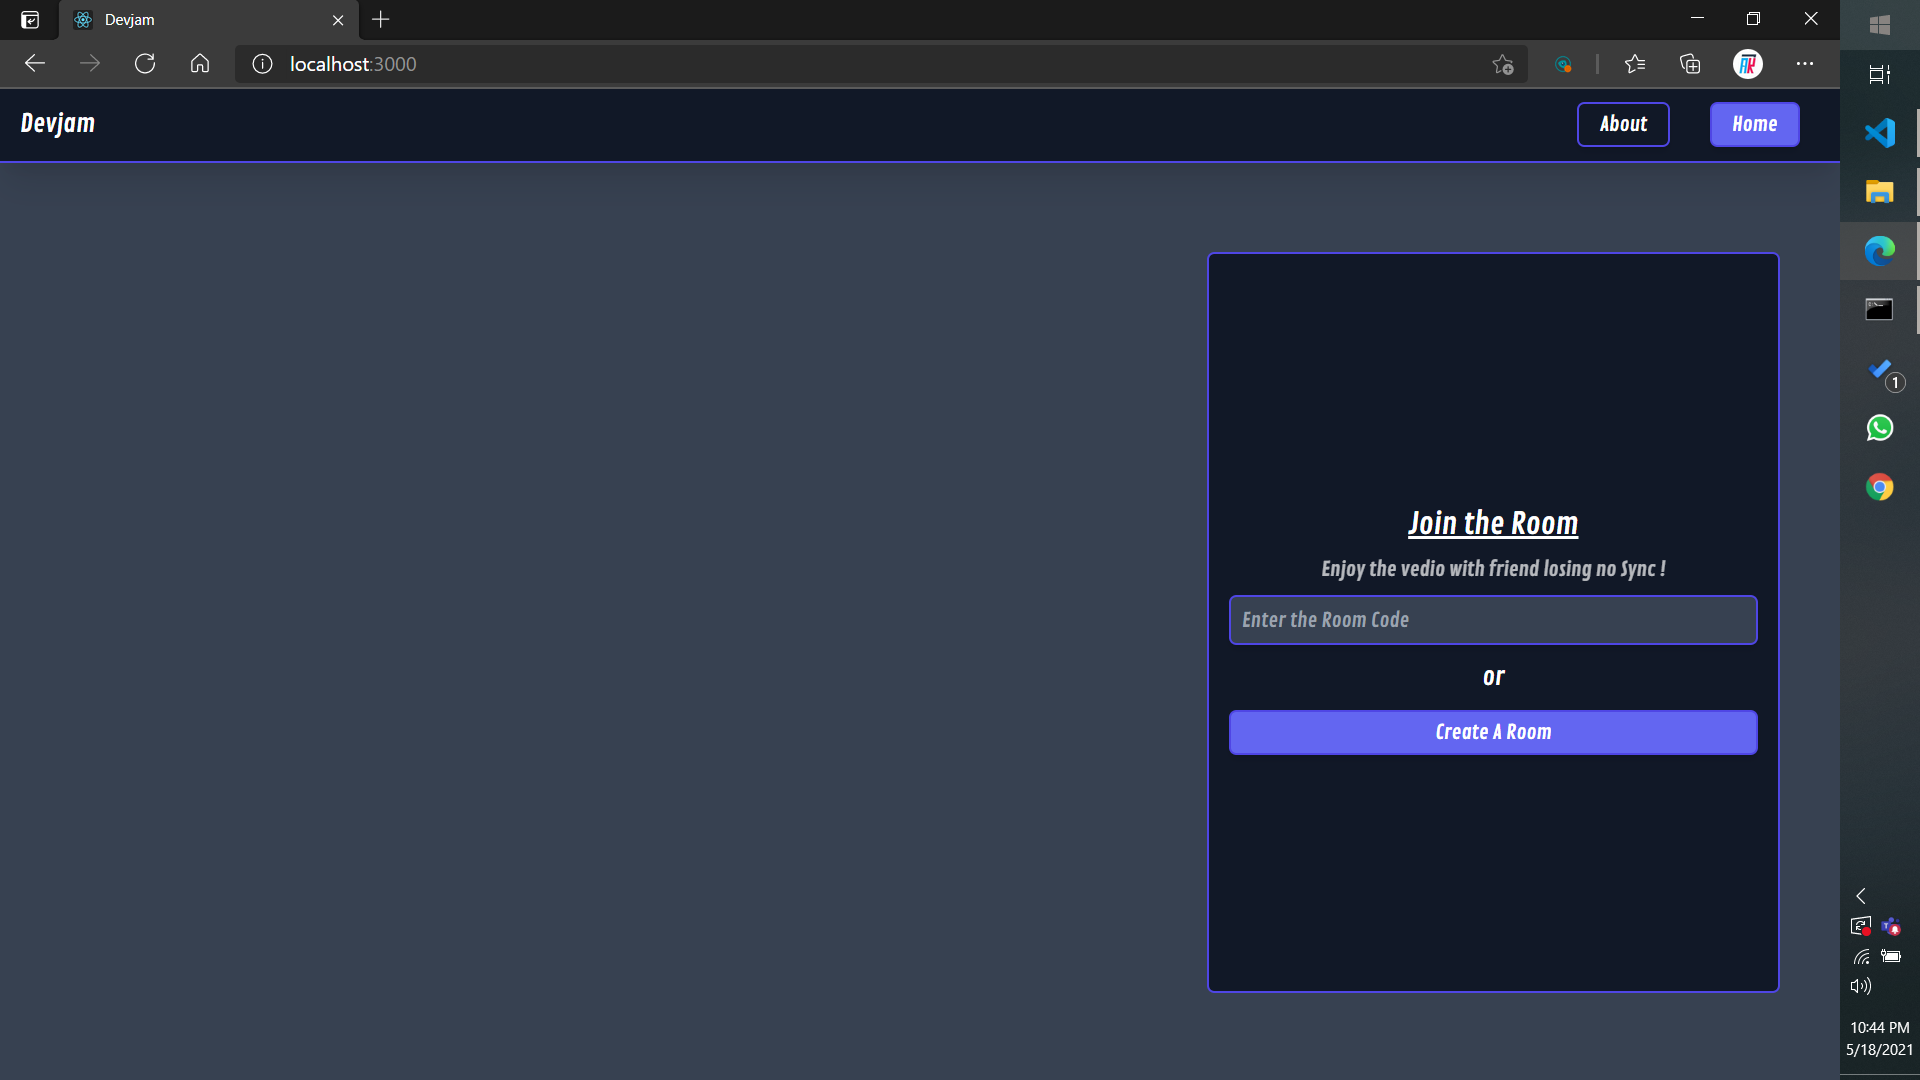
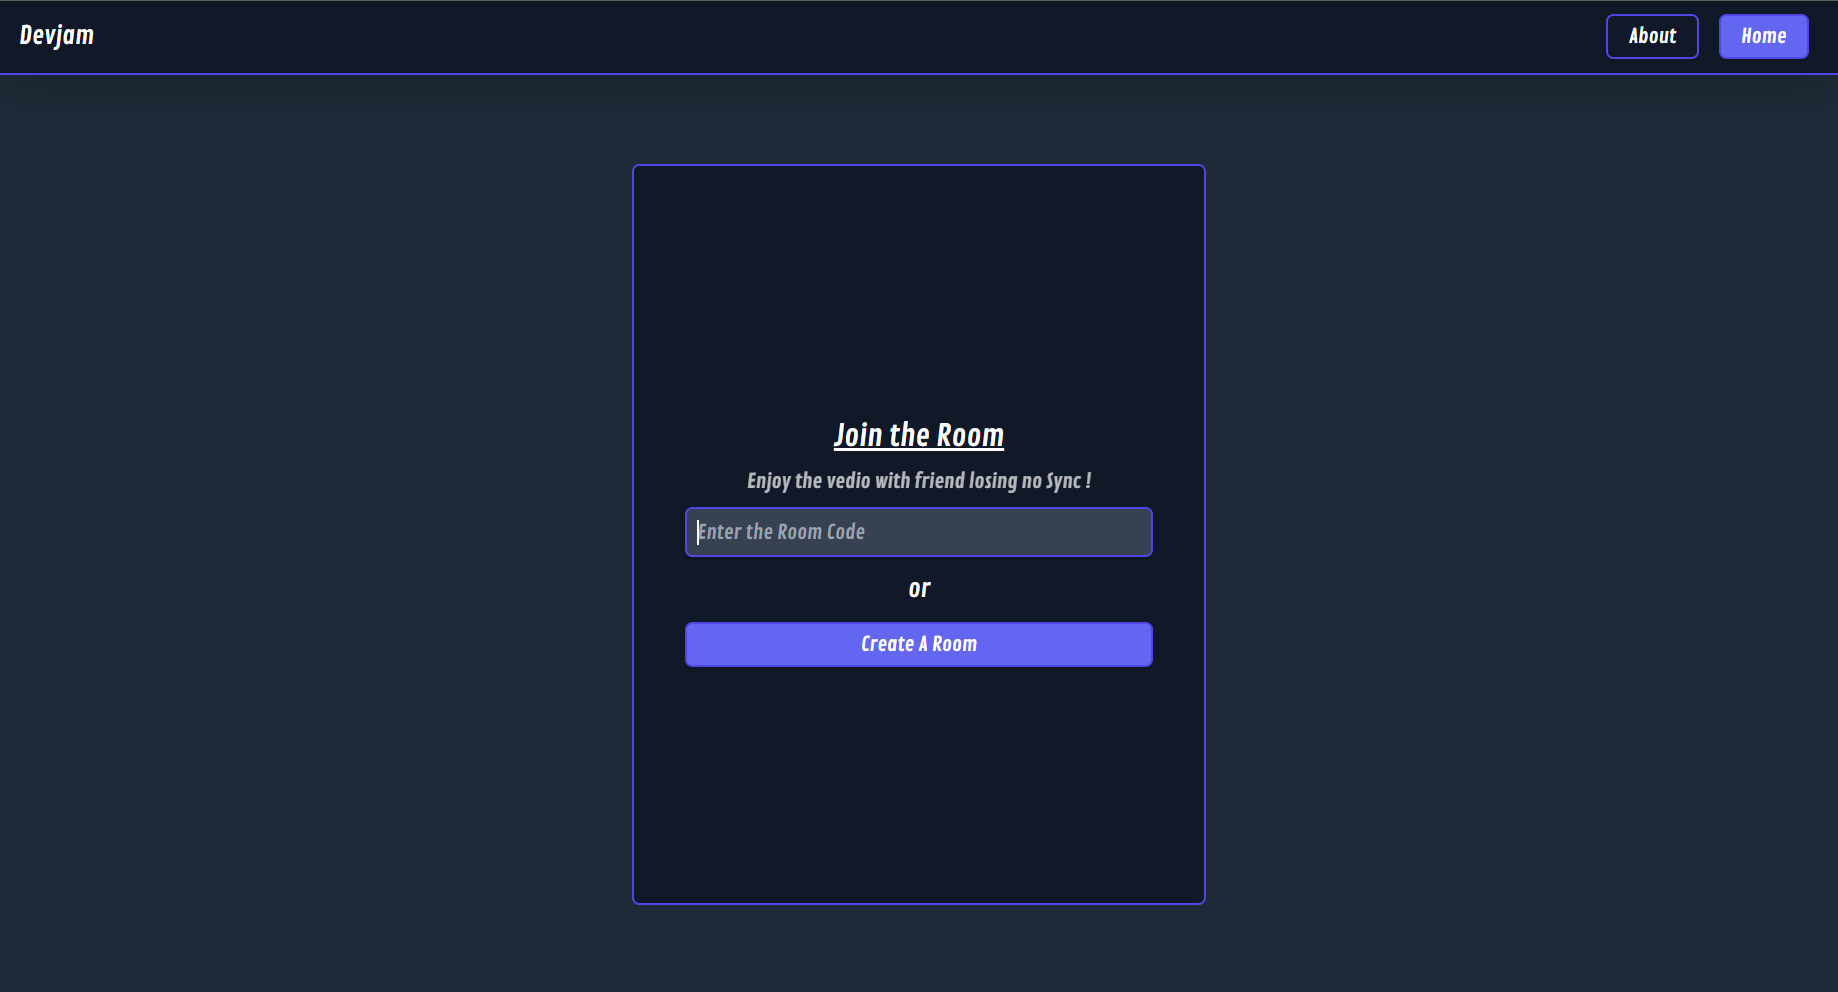
Chat
Changes:
* Chatbox
* Youtube
*

diff --git a/frontend/src/components/chatbox.js b/frontend/src/components/chatbox.js
@@ -1,0 +1,39 @@
+
+//tailwind & css
+import '../styles/tailwind.css';
+import '../styles/main.css';
+
+//Components
+import Textinput from '../components/textInput.js';
+import Chatbit from '../components/chatbit.js'
+
+
+function Chatbox(props) {
+    return (
+        <div className="chatbox flex flex-col w-full ml-3 p-3 bg-gray-900 items-center">
+            <a className="text-lg underline">Chat</a>
+
+            <div className="flex flex-col flex-grow w-full overflow-y-auto">
+                <Chatbit name="Ak" text="Hala Bois" />
+                <Chatbit name="dennishotie"   text="Hey!!" />
+                <Chatbit name="geeqib"        text="HOla" />
+                <Chatbit name="randomeuser"   text="HOla" />
+                <Chatbit name="TurboSlayer"   text="HOla" />
+                <Chatbit name="IronMerc"      text="HOla" />
+                <Chatbit name="DarkCarnage"   text="HOla" />
+                <Chatbit name="CrypticHatte"  text="HOla" />
+                <Chatbit name="FatalDestiny " text="HOla" />
+                <Chatbit name="Venom Fate"    text="HOla" />
+                <Chatbit name="Blue Defender" text="HOla" />
+            </div>
+
+            <Textinput placeholder="Type your message here"/>
+        </div>
+    );
+}
+
+
+Chatbox.defaultProps = {
+}
+
+export default Chatbox;

diff --git a/frontend/src/pages/index.js b/frontend/src/pages/index.js
@@ -8,16 +8,18 @@ import '../styles/main.css';
 import TextInput from '../components/textInput.js';
 import Button from '../components/button.js'
 
+// Jquery
+import $ from 'jquery'
 
 function Home() {
   return (
-    <div className="flex flex-row w-full py-3 px-12 items-center justify-end">
-      <div className="flex flex-col bg-gray-900 h-5/6 w-1/3 p-4 border-2 border-indigo-600 rounded-md items-center justify-center">
+    <div className="back flex flex-row w-full py-3 px-12 items-center justify-center">
+      <div className="flex flex-col bg-gray-900 h-5/6 lg:w-1/3 md:w-1/2 sm:w-1/2 p-10 border-2 border-indigo-600 rounded-md items-center justify-center">
         <a className="text-center w-100 text-2xl mt-3 underline"> Join the Room </a>
         <a className="text-center w-100 text-md my-2 opacity-70">Enjoy the vedio with friend losing no Sync !</a>
         <TextInput placeholder="Enter the Room Code"/>
         <a className="text-center w-100 text-xl my-3"> or</a>
-        <Button text="Create A Room" fullWidth={true}/>
+        <Button text="Create A Room" fullWidth={true} href="/app"/>
       </div>
     </div>
   );

diff --git a/frontend/src/components/button.js b/frontend/src/components/button.js
@@ -1,11 +1,13 @@
+
 //tailwind & css
+
 import '../styles/tailwind.css';
 import '../styles/main.css';
 
 function Button(props) {
     return (
 
-        <a href = '/'class={'flex shadow-md items-center justify-center text-white p-1 px-4 mx-4 text-center border-2 rounded-md border-indigo-600' + (props.onlyOutline ? ' ' : ' bg-indigo-500') + (props.fullWidth ? ' w-full' : ' ')}>
+        <a href={props.href} className={'shadow-md items-center justify-center text-white p-1 px-4 mx-2 text-center border-2 rounded-md border-indigo-600' + (props.onlyOutline ? ' ' : ' bg-indigo-500') + (props.fullWidth ? ' w-full' : ' ')}>
            {props.text} 
            {props.OnlyOutline}
         </a>
@@ -16,6 +18,7 @@ function Button(props) {
 Button.defaultProps = {
     OnlyOutline:false,
     fullWidth:false,
+    href:'/'
 }
 
 export default Button;

diff --git a/frontend/src/components/youtube.js b/frontend/src/components/youtube.js
@@ -1,0 +1,29 @@
+
+//tailwind & css
+import '../styles/tailwind.css';
+import '../styles/main.css';
+
+// Youtube
+import YouTube from 'react-youtube';
+
+function Youtube(props) {
+    const opts ={
+        height: '562',
+        width: '1000',
+        playerVars: {
+          // https://developers.google.com/youtube/player_parameters
+          autoplay: 1,
+          start:6000
+        },
+    }
+    return (
+        // <iframe width="1000" height="562" src="https://www.youtube.com/embed/Q13CishCKXY" title="YouTube video player" frameborder="0" allow="accelerometer; autoplay; clipboard-write; encrypted-media; gyroscope; picture-in-picture" allowfullscreen></iframe>
+        <YouTube videoId="J3pF2jkQ4vc" opts={opts} />
+    );
+}
+
+
+Youtube.defaultProps = {
+}
+
+export default Youtube;

diff --git a/frontend/src/components/textInput.js b/frontend/src/components/textInput.js
@@ -5,12 +5,12 @@ import '../styles/main.css';
 function TextInput(props) {
     return (
         <input
-        class="shadow-md bg-gray-700 border-2 border-indigo-600 rounded-md w-full py-2 px-2 text-gray-700 leading-tight outline-none"
-        name="email"
-        type="text"
-        required
-        autofocus
-        placeholder={props.placeholder}
+            className="shadow-md bg-gray-700 border-2 border-indigo-600 rounded-md w-full py-2 px-2 text-white leading-tight outline-none"
+            name="email"
+            type="text"
+            required
+            autoFocus
+            placeholder={props.placeholder}
         />
     );
 }

diff --git a/frontend/src/components/chatbit.js b/frontend/src/components/chatbit.js
@@ -1,0 +1,20 @@
+
+//tailwind & css
+import '../styles/tailwind.css';
+import '../styles/main.css';
+
+function Chatbit(props) {
+    return (
+        <div className="flex flex-col w-full h-auto my-1 border-b-2 border-gray-800 justify-start">
+            <a className="text-indigo-600 underline">{props.name}</a>
+            <a>{props.text}</a>
+        </div>
+    );
+}
+
+
+Chatbit.defaultProps = {
+    
+}
+
+export default Chatbit;

diff --git a/frontend/src/pages/main.js b/frontend/src/pages/main.js
@@ -1,11 +1,13 @@
+//COmponent
+import Youtube from '../components/youtube.js';
+import Chatbox from '../components/chatbox.js'
 
-
-import {Route,BrowserRouter as Router } from 'react-router-dom'
 
 function Main() {
   return (
-      <div className="App">
-        MAIN APP
+      <div className="flex flex-row items-center p-10 w-full">
+        <Youtube/>
+        <Chatbox/>
       </div>
   );
 }

diff --git a/frontend/src/App.js b/frontend/src/App.js
@@ -15,10 +15,14 @@ import './styles/tailwind.css';
 import './styles/main.css'
 
 
-function App() {
-  return (
-    <div className="flex flex-col h-screen bg-gray-700">
 
+function App() {
+
+
+  return (
+    <div className="back flex flex-col h-screen bg-gray-800">
+    
+    {/*NAV BAR ****************/ }
     <Nav/>
 
 

diff --git a/frontend/src/styles/main.css b/frontend/src/styles/main.css
@@ -8,3 +8,8 @@
 body{
     height: 100vh;
 }
+
+
+.chatbox{
+    height: 562px;
+}
